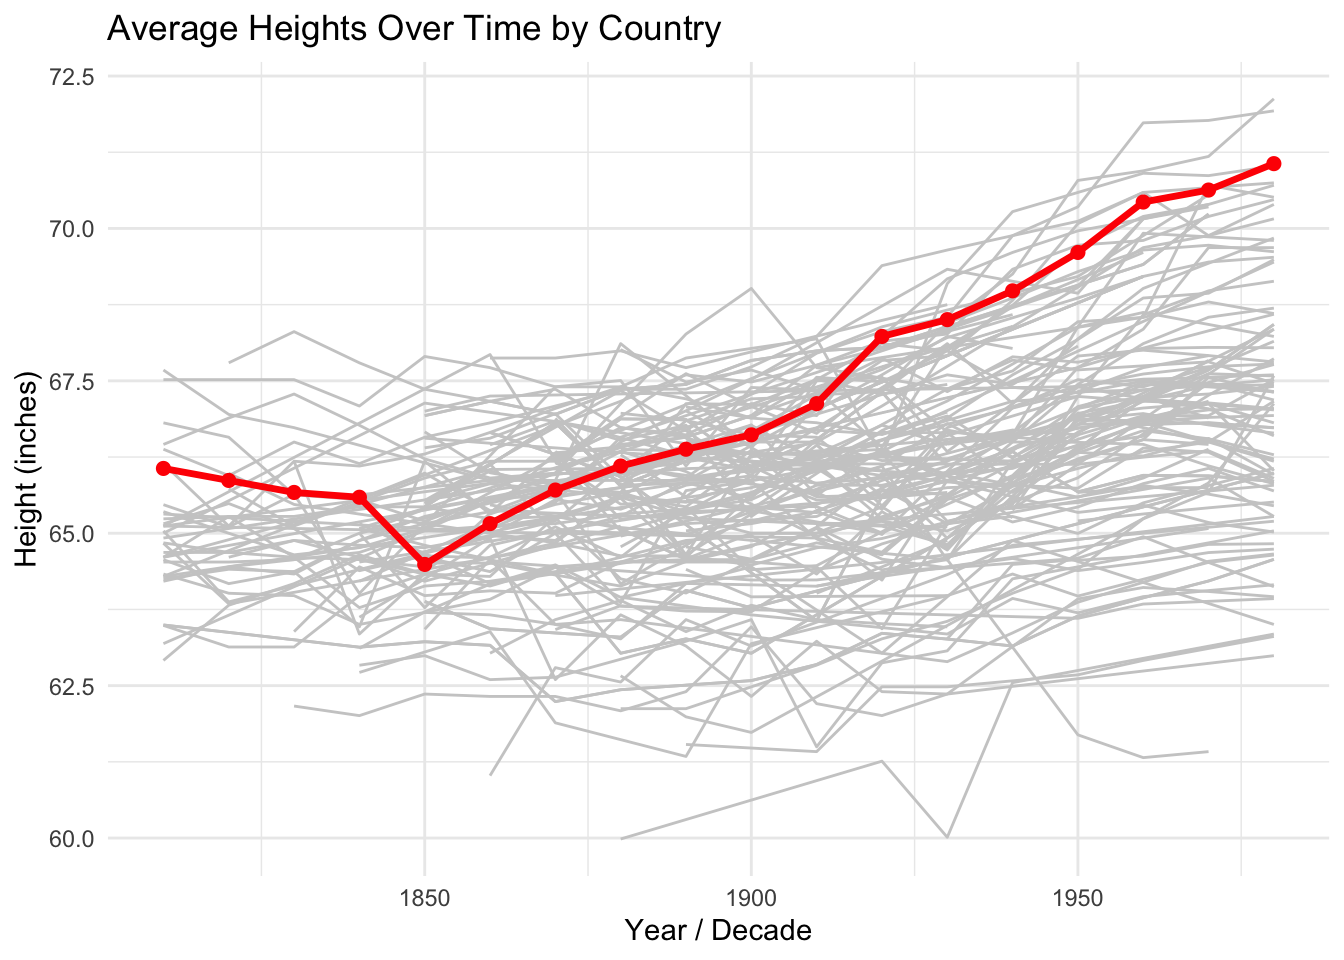
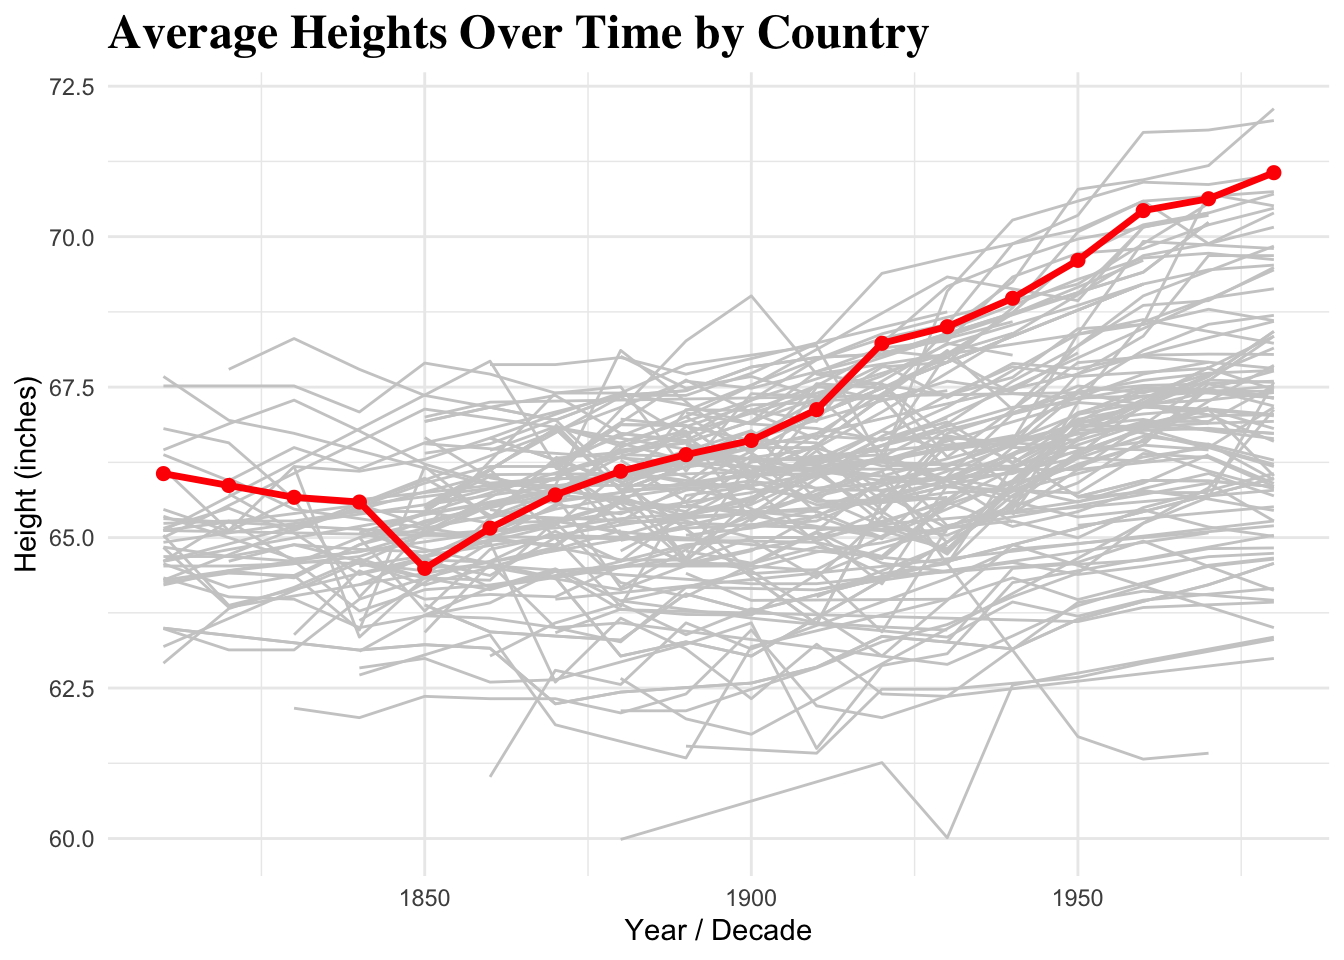
Fixed my code from a students feedback

Changed region(s): [[0.0, 0.0, 0.9688, 0.8125], [0.8438, 0.7812, 0.9062, 0.8125], [0.0312, 0.6875, 0.0625, 0.75]]

diff --git a/docs/weeks/w04/country_height.html b/docs/weeks/w04/country_height.html
@@ -152,6 +152,9 @@ code span.wa { color: #60a0b0; font-weight: bold; font-style: italic; } /* Warni
     <a class="nav-link" href="../../project_page.html">Projects</a>
   </li>  
   <li class="nav-item">
+    <a class="nav-link" href="../../case_studies.html">Case Study</a>
+  </li>  
+  <li class="nav-item">
     <a class="nav-link" href="../../task_manager.html">Tasks</a>
   </li>  
 </ul>
@@ -289,62 +292,46 @@ code span.wa { color: #60a0b0; font-weight: bold; font-style: italic; } /* Warni
 <details>
 <summary>Code</summary>
 <div class="sourceCode cell-code" id="cb1"><pre class="sourceCode numberSource r number-lines code-with-copy"><code class="sourceCode r"><span id="cb1-1"><a href="#cb1-1"></a><span class="fu">library</span>(readxl)</span>
-<span id="cb1-2"><a href="#cb1-2"></a><span class="fu">library</span>(tidyverse)</span></code><button title="Copy to Clipboard" class="code-copy-button"><i class="bi"></i></button></pre></div>
-</details>
-<div class="cell-output cell-output-stderr">
-<pre><code>── Attaching core tidyverse packages ──────────────────────── tidyverse 2.0.0 ──
-✔ dplyr     1.1.4     ✔ readr     2.1.5
-✔ forcats   1.0.0     ✔ stringr   1.5.2
-✔ ggplot2   4.0.0     ✔ tibble    3.3.0
-✔ lubridate 1.9.4     ✔ tidyr     1.3.1
-✔ purrr     1.1.0     
-── Conflicts ────────────────────────────────────────── tidyverse_conflicts() ──
-✖ dplyr::filter() masks stats::filter()
-✖ dplyr::lag()    masks stats::lag()
-ℹ Use the conflicted package (&lt;http://conflicted.r-lib.org/&gt;) to force all conflicts to become errors</code></pre>
-</div>
-<details>
-<summary>Code</summary>
-<div class="sourceCode cell-code" id="cb3"><pre class="sourceCode numberSource r number-lines code-with-copy"><code class="sourceCode r"><span id="cb3-1"><a href="#cb3-1"></a><span class="fu">library</span>(ggplot2)</span>
-<span id="cb3-2"><a href="#cb3-2"></a></span>
-<span id="cb3-3"><a href="#cb3-3"></a>heights_raw <span class="ot">&lt;-</span> <span class="fu">read_excel</span>(<span class="st">"data/Height.xlsx"</span>, <span class="at">skip =</span> <span class="dv">1</span>)  </span>
-<span id="cb3-4"><a href="#cb3-4"></a></span>
-<span id="cb3-5"><a href="#cb3-5"></a>heights_raw <span class="ot">&lt;-</span> heights_raw <span class="sc">%&gt;%</span></span>
-<span id="cb3-6"><a href="#cb3-6"></a>  <span class="fu">rename</span>(<span class="at">code =</span> <span class="dv">1</span>, <span class="at">country =</span> <span class="dv">2</span>)</span>
-<span id="cb3-7"><a href="#cb3-7"></a></span>
-<span id="cb3-8"><a href="#cb3-8"></a>heights <span class="ot">&lt;-</span> heights_raw <span class="sc">%&gt;%</span></span>
-<span id="cb3-9"><a href="#cb3-9"></a>  <span class="fu">pivot_longer</span>(</span>
-<span id="cb3-10"><a href="#cb3-10"></a>    <span class="at">cols =</span> <span class="sc">-</span><span class="fu">c</span>(code, country),</span>
-<span id="cb3-11"><a href="#cb3-11"></a>    <span class="at">names_to =</span> <span class="st">"year_decade"</span>,</span>
-<span id="cb3-12"><a href="#cb3-12"></a>    <span class="at">values_to =</span> <span class="st">"height_cm"</span></span>
-<span id="cb3-13"><a href="#cb3-13"></a>  ) <span class="sc">%&gt;%</span></span>
-<span id="cb3-14"><a href="#cb3-14"></a>  <span class="fu">filter</span>(<span class="fu">str_detect</span>(year_decade, <span class="st">"^[0-9]+$"</span>)) <span class="sc">%&gt;%</span></span>
-<span id="cb3-15"><a href="#cb3-15"></a>  <span class="fu">mutate</span>(</span>
-<span id="cb3-16"><a href="#cb3-16"></a>    <span class="at">height_cm =</span> <span class="fu">as.numeric</span>(height_cm),</span>
-<span id="cb3-17"><a href="#cb3-17"></a>    <span class="at">year_decade =</span> <span class="fu">as.numeric</span>(year_decade),</span>
-<span id="cb3-18"><a href="#cb3-18"></a>    <span class="at">height_in =</span> height_cm <span class="sc">/</span> <span class="fl">2.54</span></span>
-<span id="cb3-19"><a href="#cb3-19"></a>  ) <span class="sc">%&gt;%</span></span>
-<span id="cb3-20"><a href="#cb3-20"></a>  <span class="fu">filter</span>(<span class="sc">!</span><span class="fu">is.na</span>(height_cm))</span></code><button title="Copy to Clipboard" class="code-copy-button"><i class="bi"></i></button></pre></div>
+<span id="cb1-2"><a href="#cb1-2"></a><span class="fu">library</span>(tidyverse)</span>
+<span id="cb1-3"><a href="#cb1-3"></a><span class="fu">library</span>(ggplot2)</span>
+<span id="cb1-4"><a href="#cb1-4"></a></span>
+<span id="cb1-5"><a href="#cb1-5"></a>heights_raw <span class="ot">&lt;-</span> <span class="fu">read_excel</span>(<span class="st">"data/Height.xlsx"</span>, <span class="at">skip =</span> <span class="dv">1</span>)  </span>
+<span id="cb1-6"><a href="#cb1-6"></a></span>
+<span id="cb1-7"><a href="#cb1-7"></a>heights_raw <span class="ot">&lt;-</span> heights_raw <span class="sc">%&gt;%</span></span>
+<span id="cb1-8"><a href="#cb1-8"></a>  <span class="fu">rename</span>(<span class="at">code =</span> <span class="dv">1</span>, <span class="at">country =</span> <span class="dv">2</span>)</span>
+<span id="cb1-9"><a href="#cb1-9"></a></span>
+<span id="cb1-10"><a href="#cb1-10"></a>heights <span class="ot">&lt;-</span> heights_raw <span class="sc">%&gt;%</span></span>
+<span id="cb1-11"><a href="#cb1-11"></a>  <span class="fu">pivot_longer</span>(</span>
+<span id="cb1-12"><a href="#cb1-12"></a>    <span class="at">cols =</span> <span class="sc">-</span><span class="fu">c</span>(code, country),</span>
+<span id="cb1-13"><a href="#cb1-13"></a>    <span class="at">names_to =</span> <span class="st">"year_decade"</span>,</span>
+<span id="cb1-14"><a href="#cb1-14"></a>    <span class="at">values_to =</span> <span class="st">"height_cm"</span></span>
+<span id="cb1-15"><a href="#cb1-15"></a>  ) <span class="sc">%&gt;%</span></span>
+<span id="cb1-16"><a href="#cb1-16"></a>  <span class="fu">filter</span>(<span class="fu">str_detect</span>(year_decade, <span class="st">"^[0-9]+$"</span>)) <span class="sc">%&gt;%</span></span>
+<span id="cb1-17"><a href="#cb1-17"></a>  <span class="fu">mutate</span>(</span>
+<span id="cb1-18"><a href="#cb1-18"></a>    <span class="at">height_cm =</span> <span class="fu">as.numeric</span>(height_cm),</span>
+<span id="cb1-19"><a href="#cb1-19"></a>    <span class="at">year_decade =</span> <span class="fu">as.numeric</span>(year_decade),</span>
+<span id="cb1-20"><a href="#cb1-20"></a>    <span class="at">height_in =</span> height_cm <span class="sc">/</span> <span class="fl">2.54</span></span>
+<span id="cb1-21"><a href="#cb1-21"></a>  ) <span class="sc">%&gt;%</span></span>
+<span id="cb1-22"><a href="#cb1-22"></a>  <span class="fu">filter</span>(<span class="sc">!</span><span class="fu">is.na</span>(height_cm))</span></code><button title="Copy to Clipboard" class="code-copy-button"><i class="bi"></i></button></pre></div>
 </details>
 </div>
 <div class="cell">
 <details>
 <summary>Code</summary>
-<div class="sourceCode cell-code" id="cb4"><pre class="sourceCode numberSource r number-lines code-with-copy"><code class="sourceCode r"><span id="cb4-1"><a href="#cb4-1"></a><span class="fu">ggplot</span>(heights, <span class="fu">aes</span>(<span class="at">x =</span> year_decade, <span class="at">y =</span> height_in, <span class="at">group =</span> country)) <span class="sc">+</span></span>
-<span id="cb4-2"><a href="#cb4-2"></a>  <span class="fu">geom_line</span>(<span class="at">data =</span> heights <span class="sc">%&gt;%</span> <span class="fu">filter</span>(country <span class="sc">!=</span> <span class="st">"Germany"</span>), <span class="at">color =</span> <span class="st">"grey80"</span>) <span class="sc">+</span> </span>
-<span id="cb4-3"><a href="#cb4-3"></a>  <span class="fu">geom_line</span>(<span class="at">data =</span> heights <span class="sc">%&gt;%</span> <span class="fu">filter</span>(country <span class="sc">==</span> <span class="st">"Germany"</span>), <span class="at">color =</span> <span class="st">"red"</span>, <span class="at">size =</span> <span class="fl">1.2</span>) <span class="sc">+</span> <span class="co"># Germany bold</span></span>
-<span id="cb4-4"><a href="#cb4-4"></a>  <span class="fu">geom_point</span>(<span class="at">data =</span> heights <span class="sc">%&gt;%</span> <span class="fu">filter</span>(country <span class="sc">==</span> <span class="st">"Germany"</span>), <span class="at">color =</span> <span class="st">"red"</span>, <span class="at">size =</span> <span class="dv">2</span>) <span class="sc">+</span></span>
-<span id="cb4-5"><a href="#cb4-5"></a>  <span class="fu">labs</span>(</span>
-<span id="cb4-6"><a href="#cb4-6"></a>    <span class="at">title =</span> <span class="st">"Average Heights Over Time by Country"</span>,</span>
-<span id="cb4-7"><a href="#cb4-7"></a>    <span class="at">x =</span> <span class="st">"Year / Decade"</span>,</span>
-<span id="cb4-8"><a href="#cb4-8"></a>    <span class="at">y =</span> <span class="st">"Height (inches)"</span></span>
-<span id="cb4-9"><a href="#cb4-9"></a>  ) <span class="sc">+</span></span>
-<span id="cb4-10"><a href="#cb4-10"></a>  <span class="fu">theme_minimal</span>()</span></code><button title="Copy to Clipboard" class="code-copy-button"><i class="bi"></i></button></pre></div>
+<div class="sourceCode cell-code" id="cb2"><pre class="sourceCode numberSource r number-lines code-with-copy"><code class="sourceCode r"><span id="cb2-1"><a href="#cb2-1"></a><span class="fu">ggplot</span>(heights, <span class="fu">aes</span>(<span class="at">x =</span> year_decade, <span class="at">y =</span> height_in, <span class="at">group =</span> country)) <span class="sc">+</span></span>
+<span id="cb2-2"><a href="#cb2-2"></a>  <span class="fu">geom_line</span>(<span class="at">data =</span> heights <span class="sc">%&gt;%</span> <span class="fu">filter</span>(country <span class="sc">!=</span> <span class="st">"Germany"</span>), <span class="at">color =</span> <span class="st">"grey80"</span>) <span class="sc">+</span> </span>
+<span id="cb2-3"><a href="#cb2-3"></a>  <span class="fu">geom_line</span>(<span class="at">data =</span> heights <span class="sc">%&gt;%</span> <span class="fu">filter</span>(country <span class="sc">==</span> <span class="st">"Germany"</span>), <span class="at">color =</span> <span class="st">"red"</span>, <span class="at">linewidth =</span> <span class="fl">1.2</span>) <span class="sc">+</span> <span class="co"># Germany bold</span></span>
+<span id="cb2-4"><a href="#cb2-4"></a>  <span class="fu">geom_point</span>(<span class="at">data =</span> heights <span class="sc">%&gt;%</span> <span class="fu">filter</span>(country <span class="sc">==</span> <span class="st">"Germany"</span>), <span class="at">color =</span> <span class="st">"red"</span>, <span class="at">size =</span> <span class="dv">2</span>) <span class="sc">+</span></span>
+<span id="cb2-5"><a href="#cb2-5"></a>  <span class="fu">labs</span>(</span>
+<span id="cb2-6"><a href="#cb2-6"></a>    <span class="at">title =</span> <span class="st">"Average Heights Over Time by Country"</span>,</span>
+<span id="cb2-7"><a href="#cb2-7"></a>    <span class="at">x =</span> <span class="st">"Year / Decade"</span>,</span>
+<span id="cb2-8"><a href="#cb2-8"></a>    <span class="at">y =</span> <span class="st">"Height (inches)"</span></span>
+<span id="cb2-9"><a href="#cb2-9"></a>  ) <span class="sc">+</span></span>
+<span id="cb2-10"><a href="#cb2-10"></a>  <span class="fu">theme_minimal</span>() <span class="sc">+</span> </span>
+<span id="cb2-11"><a href="#cb2-11"></a>  <span class="fu">theme</span>(</span>
+<span id="cb2-12"><a href="#cb2-12"></a>    <span class="at">plot.title =</span> <span class="fu">element_text</span>(<span class="at">size =</span> <span class="dv">18</span>, <span class="at">family =</span> <span class="st">"serif"</span>, <span class="at">face =</span> <span class="st">"bold"</span>)</span>
+<span id="cb2-13"><a href="#cb2-13"></a>  )</span></code><button title="Copy to Clipboard" class="code-copy-button"><i class="bi"></i></button></pre></div>
 </details>
-<div class="cell-output cell-output-stderr">
-<pre><code>Warning: Using `size` aesthetic for lines was deprecated in ggplot2 3.4.0.
-ℹ Please use `linewidth` instead.</code></pre>
-</div>
 <div class="cell-output-display">
 <p><img src="country_height_files/figure-html/unnamed-chunk-2-1.png" class="img-fluid" width="672"></p>
 </div>
